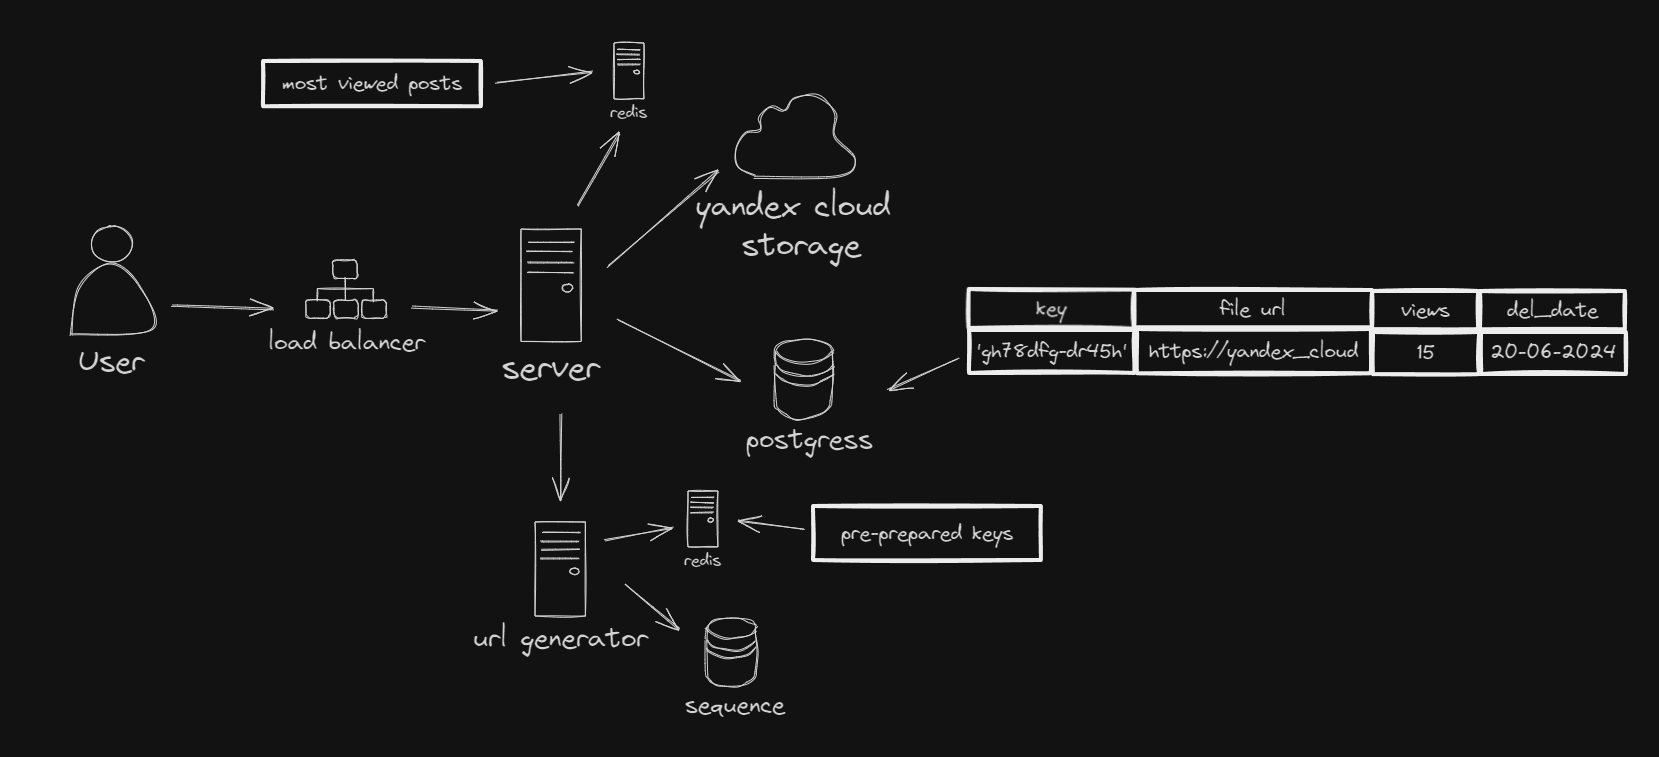
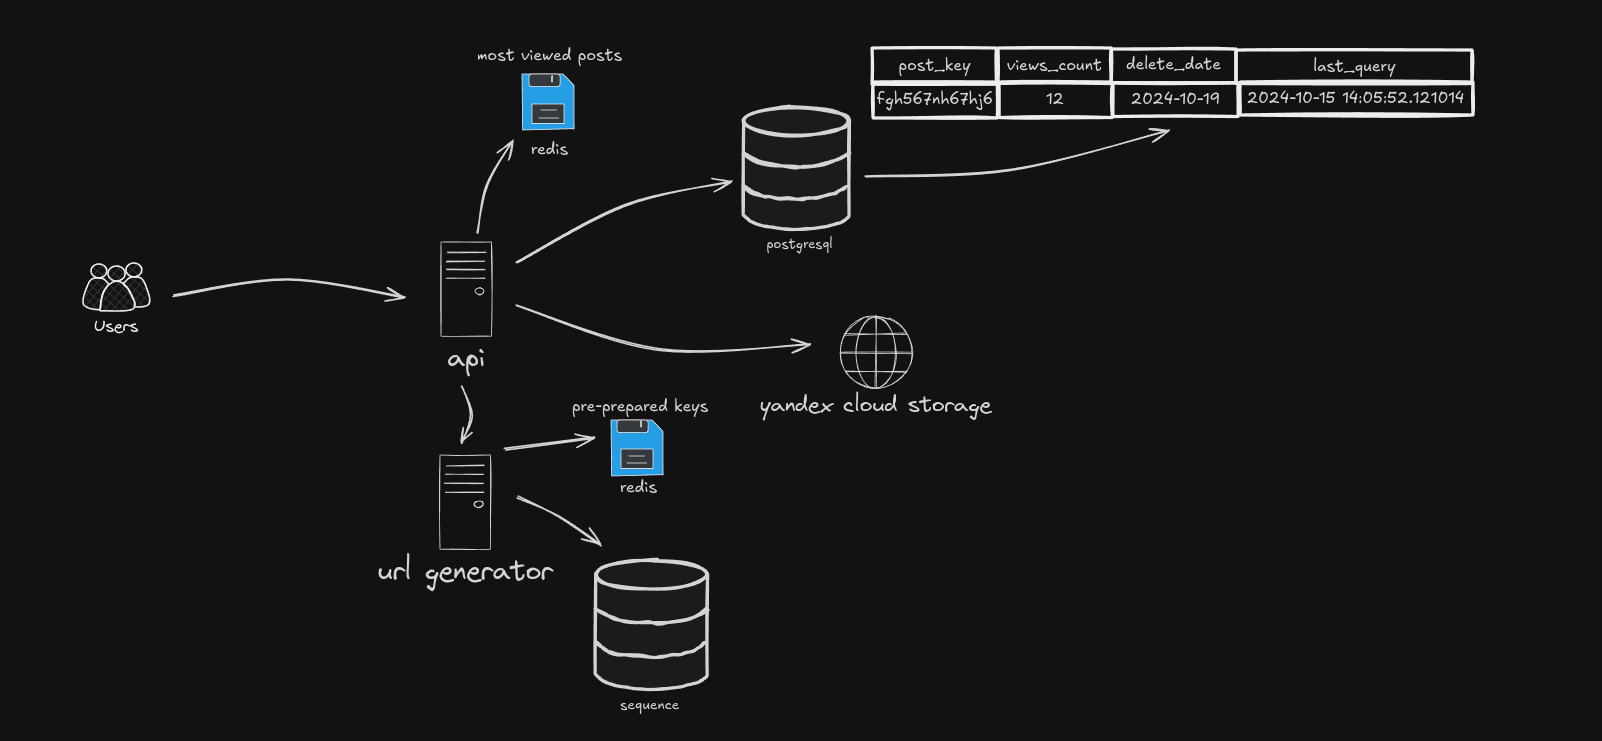
added new project scheme

diff --git a/README.md b/README.md
@@ -23,7 +23,7 @@
 5. `pip install -r requirements.txt`
 6. `python3.12 manage.py makemigrations`
 7. `python3.12 manage.py migrate`
-8. Зайти в файл settings и добавить в свою операционную систему переменные окружения
+8. Зайти в файл settings и добавить в свою операционную систему переменные окружения с соответствующими значениями 
 9. `python3.12 manage.py runserver`
 10. Развернуть генератор ссылок на порту 8001
 11. Чтобы удалить устаревшие посты `python3.12 manage.py del_outdated_posts`
